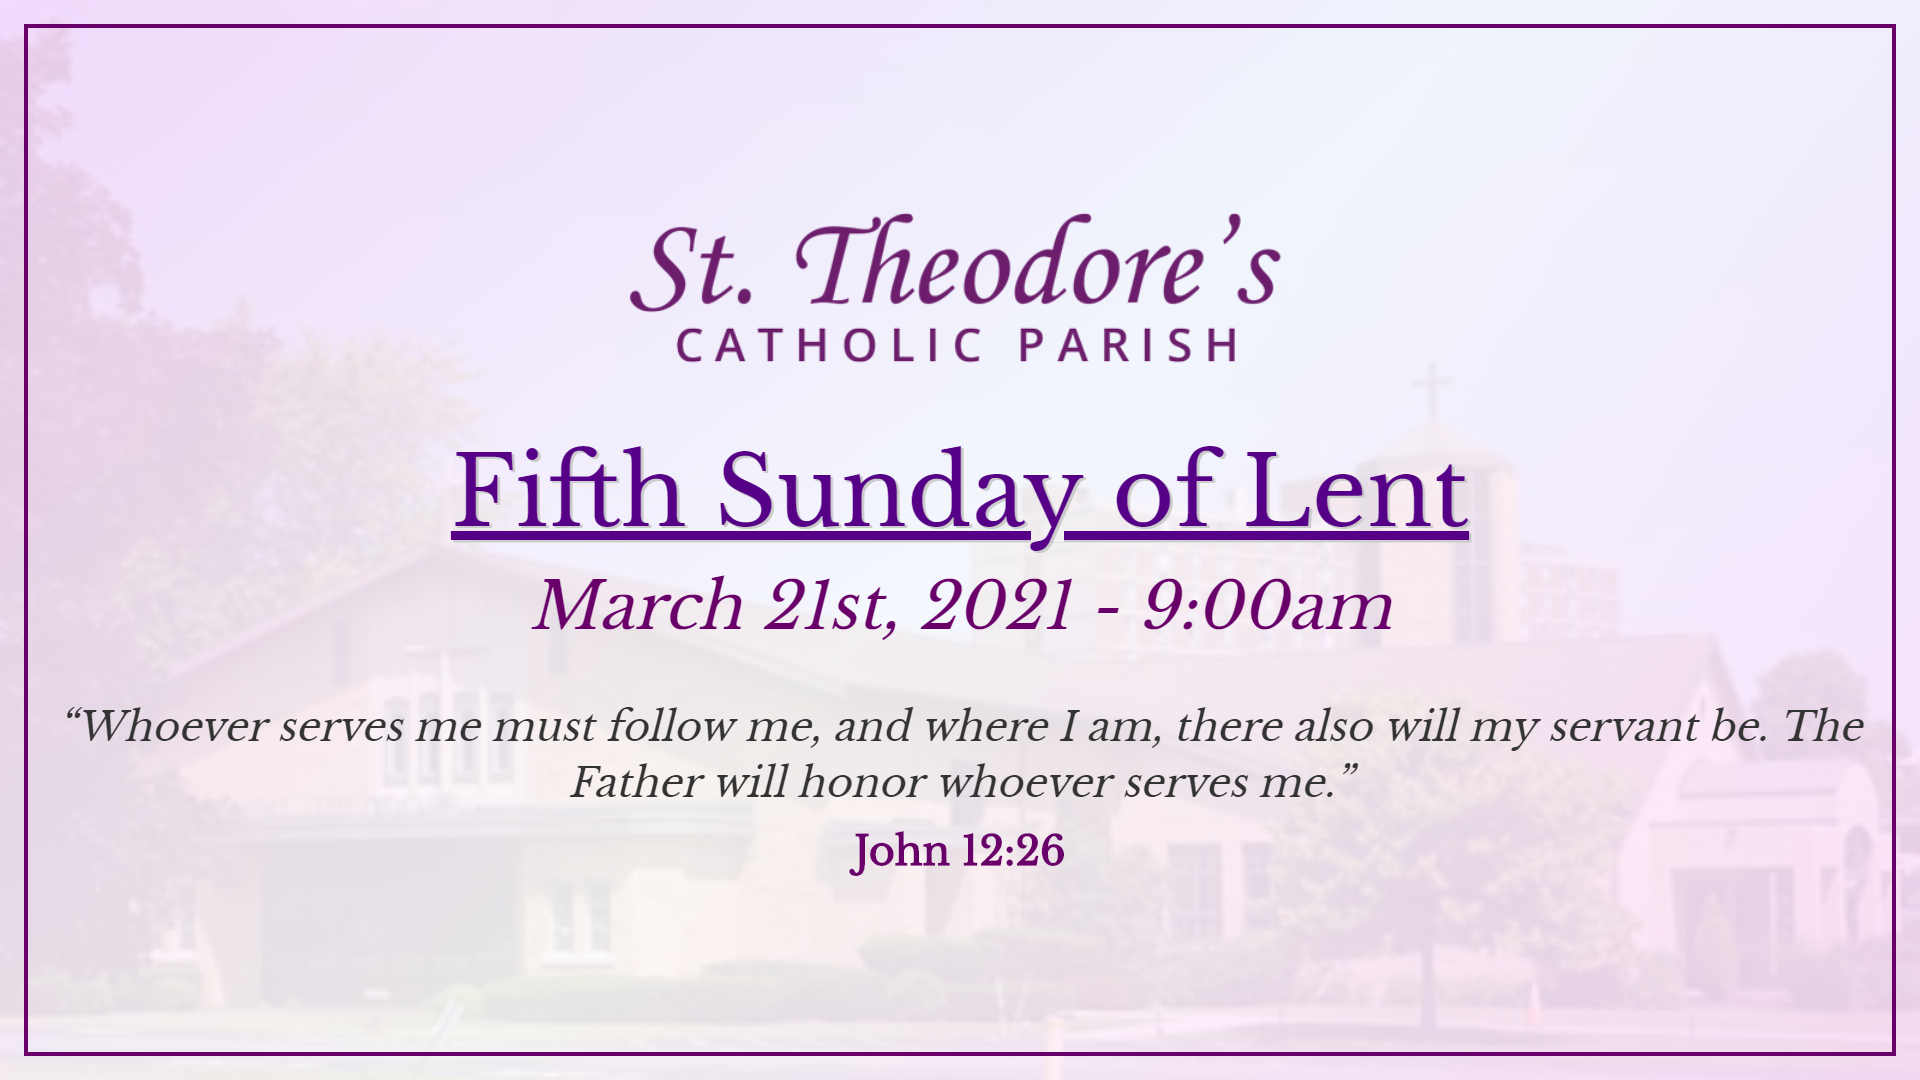
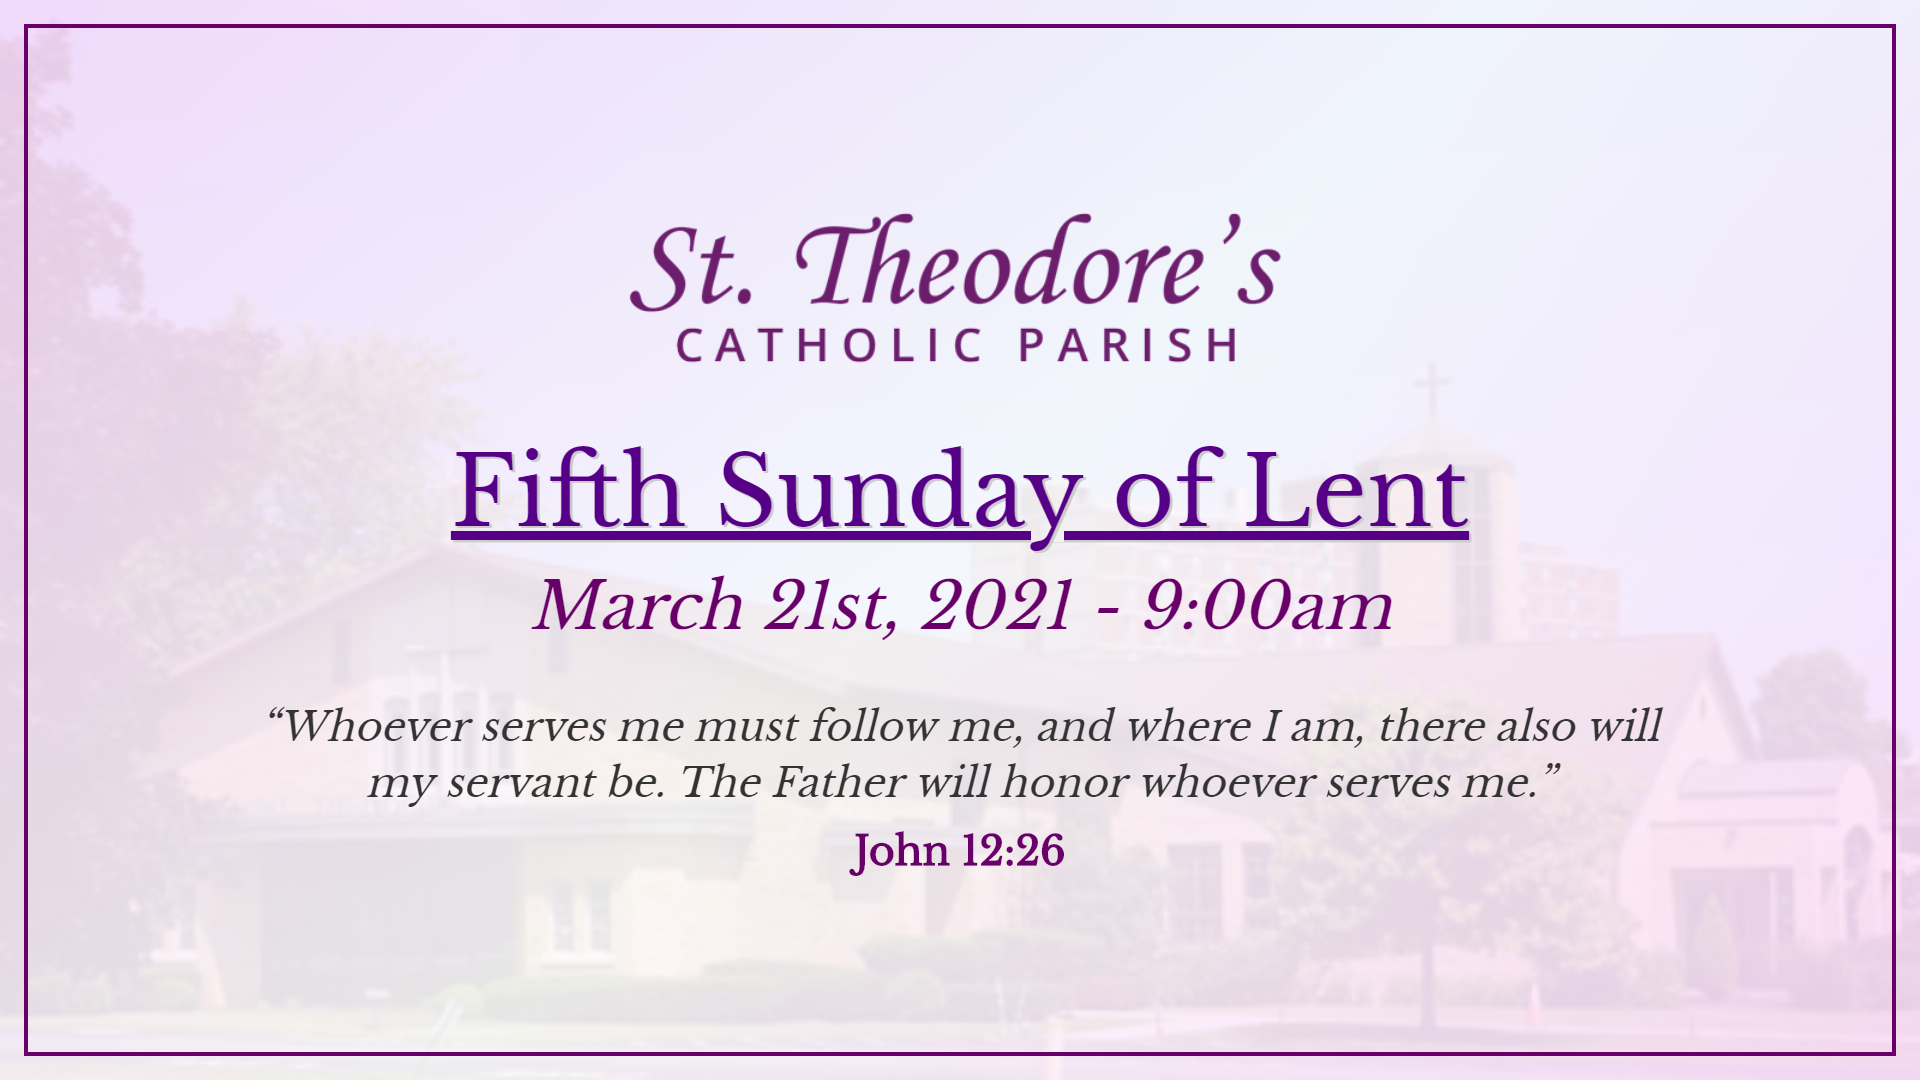
Added announcements for mass on 3/21/2021.

Changed region(s): [[0.0312, 0.6417, 0.9688, 0.7333]]

diff --git a/html/2021-03-21/index.html b/html/2021-03-21/index.html
@@ -15,7 +15,6 @@
                 <li><a href="prelude/announcements-01.html">Announcements 1</a></li>
                 <li><a href="prelude/announcements-02.html">Announcements 2</a></li>
                 <li><a href="prelude/announcements-03.html">Announcements 3</a></li>
-                <li><a href="prelude/announcements-04.html">Announcements 4</a></li>
             </ul>
         </li>
         <li>Introduction
@@ -31,15 +30,10 @@
             <ul>
                 <li><a href="liturgy-of-the-word/reading-1.1.html">First Reading 1</a></li>
                 <li><a href="liturgy-of-the-word/reading-1.2.html">First Reading 2</a></li>
-                <li><a href="liturgy-of-the-word/reading-1.3.html">First Reading 3</a></li>
-                <li><a href="liturgy-of-the-word/reading-1.4.html">First Reading 4</a></li>
                 <li><a href="liturgy-of-the-word/psalm-1.1.html">Responsorial Psalm 1</a></li>
                 <li><a href="liturgy-of-the-word/psalm-1.2.html">Responsorial Psalm 2</a></li>
-                <li><a href="liturgy-of-the-word/psalm-1.3.html">Responsorial Psalm 3</a></li>
                 <li><a href="liturgy-of-the-word/reading-2.1.html">Second Reading 1</a></li>
-                <li><a href="liturgy-of-the-word/reading-2.2.html">Second Reading 2</a></li>
                 <li><a href="liturgy-of-the-word/gospel-acclamation-1.html">Gospel Acclamation 1</a></li>
-                <li><a href="liturgy-of-the-word/gospel-acclamation-2.html">Gospel Acclamation 2</a></li>
                 <li><a href="liturgy-of-the-word/gospel-1.html">Gospel 1</a></li>
                 <li><a href="liturgy-of-the-word/gospel-2.html">Gospel 2</a></li>
                 <li><a href="liturgy-of-the-word/gospel-3.html">Gospel 3</a></li>

diff --git a/html/2021-03-21/prelude/announcements-02.html b/html/2021-03-21/prelude/announcements-02.html
@@ -12,14 +12,14 @@
     <div class="container bordered announcements announcements-2 church-bg">
         <div class="heading">Announcements</div>
         <div class="announcements__content">
-            <p>This week starts our virtual retreat. Deacon David starts us off on Tuesday, Sr. Kate will present on
-                Thursday and Deacon Dennis will conclude next Tuesday. You will have an opportunity to interact with the
-                speaker through live chat. The retreat begins at 7:00 p.m. and you can find the link on our Lent 2021
-                page on our website. Details are in the bulletin.</p>
-            <p>We will not be having penance services this Lent. Confessions will be by appointment only. Please call
-                the office to schedule.</p>
+            <p>Deacon Dennis concludes our virtual retreat this Tuesday. You will have an opportunity to interact with
+                him through live chat. The retreat begins at 7:00 p.m. and you can find the link on our Lent 2021 page
+                on our website.</p>
             <p>We are having an Easter event for families on March 28. More details and registration information is in
                 the bulletin.</p>
+            <p>We are only at 72% of our CMA goal. Many families still have not given. Everyone needs to contribute in
+                order for our parish to make its goal. If we do not reach our goal, we will need to take the money out
+                of our savings. Extra envelopes are available in the parish office.</p>
         </div>
     </div>
 </body>

diff --git a/html/2021-03-21/prelude/announcements-03.html b/html/2021-03-21/prelude/announcements-03.html
@@ -12,14 +12,13 @@
     <div class="container bordered announcements announcements-3 church-bg">
         <div class="heading">Announcements</div>
         <div class="announcements__content">
-            <p>We are only at 71% of our CMA goal. Many families still have not given. Everyone needs to contribute in
-                order for our parish to make its goal. If we do not reach our goal, we will need to take the money out
-                of our savings.</p>
-            <p>We are grateful to everyone who have kept their weekly offerings current and pray that you continue to do
-                so. In order for us to resume our ministries and programs upon reopening, we need everyone to contribute
-                to our Sunday offering.</p>
+            <p>Thank you to everyone who have kept their weekly offerings current and pray that you continue to do so. 
+                In order for us to resume our ministries and programs upon reopening, we need everyone to contribute to
+                our Sunday offering.</p>
             <p>Sunday envelopes and food donations can be dropped off outside the parish life center on Mondays,
                 Wednesdays and Thursdays from 9-12.</p>
+            <p>Please be sure to read the bulletin for parish information.</p>
+            <p><span class="announcements--emphasis">Do something nice for someone this week.</span></p>
         </div>
     </div>
 </body>

diff --git a/html/2021-03-21/prelude/announcements-01.html b/html/2021-03-21/prelude/announcements-01.html
@@ -16,14 +16,16 @@
                 limited capacity and social distancing.</p>
             <p>It would be appreciated if you check our Facebook page, website, email or office phone message for
                 updates and spread the word to others.</p>
-            <div class="list-title">
+            <p>Reservations are required for the Triduum and Easter Sunday. <b>Everyone will need to make a reservation
+                    in order to attend.</b> Check the bulletin for information on making reservations.</p>
+            <!-- <div class="list-title">
                 <p class="list-title__heading">Today's readings are:</p>
                 <ul class="verse">
                     <li>2 Chr 36:14-16, 19-23</li>
                     <li>Eph 2:4-10</li>
                     <li>Jn 3:14-21</li>
                 </ul>
-            </div>
+            </div> -->
         </div>
     </div>
 </body>

diff --git a/html/2021-03-21/styles.scss b/html/2021-03-21/styles.scss
@@ -217,6 +217,7 @@ a {
 
     &__quote {
         position: relative;
+        width: 80%;
         margin-top: calc(var(--spacer) * 2);
         color: var(--clr-primary-text);
         font-style: italic;

diff --git a/html/2021-03-21/styles.css b/html/2021-03-21/styles.css
@@ -190,6 +190,7 @@ a {
 
 .title-page__quote {
   position: relative;
+  width: 80%;
   margin-top: calc(var(--spacer) * 2);
   color: var(--clr-primary-text);
   font-style: italic;
